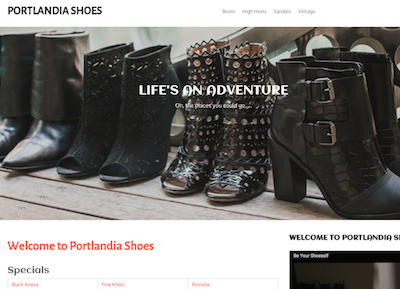
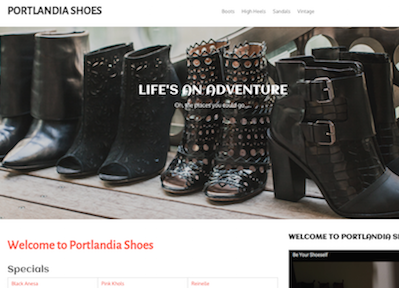
Move portfolio section to top. Remove all images and start over to prevent float drop of images.

diff --git a/index.html b/index.html
@@ -21,6 +21,7 @@
     <link href="font-awesome/css/font-awesome.min.css" rel="stylesheet" type="text/css">
     <link href="https://fonts.googleapis.com/css?family=Montserrat:400,700" rel="stylesheet" type="text/css">
     <link href='https://fonts.googleapis.com/css?family=Kaushan+Script' rel='stylesheet' type='text/css'>
+    <link href='http://fonts.googleapis.com/css?family=Lobster' rel='stylesheet' type='text/css'>
     <link href='https://fonts.googleapis.com/css?family=Droid+Serif:400,700,400italic,700italic' rel='stylesheet' type='text/css'>
     <link href='https://fonts.googleapis.com/css?family=Roboto+Slab:400,100,300,700' rel='stylesheet' type='text/css'>
 
@@ -81,6 +82,104 @@
         </div>
     </header>
 
+     <!-- Portfolio Grid Section -->
+    <section id="portfolio" class="bg-light-gray">
+        <div class="container">
+            <div class="row">
+                <div class="col-lg-12 text-center">
+                    <h2 class="section-heading">Portfolio</h2>
+                    <h3 class="section-subheading text-muted">Lorem ipsum dolor sit amet consectetur.</h3>
+                </div>
+            </div>
+            <div class="row">
+                <div class="col-md-4 col-sm-6 portfolio-item">
+                    <a href="#portfolioModal1" class="portfolio-link" data-toggle="modal">
+                        <div class="portfolio-hover">
+                            <div class="portfolio-hover-content">
+                                <i class="fa fa-plus fa-3x"></i>
+                            </div>
+                        </div>
+                        <img src="img/portfolio/roundicons.png" class="img-responsive" alt="">
+                    </a>
+                    <div class="portfolio-caption">
+                        <h4>Round Icons</h4>
+                        <p class="text-muted">Graphic Design</p>
+                    </div>
+                </div>
+                <div class="col-md-4 col-sm-6 portfolio-item">
+                    <a href="#portfolioModal2" class="portfolio-link" data-toggle="modal">
+                        <div class="portfolio-hover">
+                            <div class="portfolio-hover-content">
+                                <i class="fa fa-plus fa-3x"></i>
+                            </div>
+                        </div>
+                        <img src="img/portfolio/startup-framework.png" class="img-responsive" alt="">
+                    </a>
+                    <div class="portfolio-caption">
+                        <h4>Startup Framework</h4>
+                        <p class="text-muted">Website Design</p>
+                    </div>
+                </div>
+                <div class="col-md-4 col-sm-6 portfolio-item">
+                    <a href="#portfolioModal3" class="portfolio-link" data-toggle="modal">
+                        <div class="portfolio-hover">
+                            <div class="portfolio-hover-content">
+                                <i class="fa fa-plus fa-3x"></i>
+                            </div>
+                        </div>
+                        <img src="img/portfolio/treehouse.png" class="img-responsive" alt="">
+                    </a>
+                    <div class="portfolio-caption">
+                        <h4>Treehouse</h4>
+                        <p class="text-muted">Website Design</p>
+                    </div>
+                </div>
+                <div class="col-md-4 col-sm-6 portfolio-item">
+                    <a href="#portfolioModal4" class="portfolio-link" data-toggle="modal">
+                        <div class="portfolio-hover">
+                            <div class="portfolio-hover-content">
+                                <i class="fa fa-plus fa-3x"></i>
+                            </div>
+                        </div>
+                        <img src="img/portfolio/golden.png" class="img-responsive" alt="">
+                    </a>
+                    <div class="portfolio-caption">
+                        <h4>Golden</h4>
+                        <p class="text-muted">Website Design</p>
+                    </div>
+                </div>
+                <div class="col-md-4 col-sm-6 portfolio-item">
+                    <a href="#portfolioModal5" class="portfolio-link" data-toggle="modal">
+                        <div class="portfolio-hover">
+                            <div class="portfolio-hover-content">
+                                <i class="fa fa-plus fa-3x"></i>
+                            </div>
+                        </div>
+                        <img src="img/portfolio/escape.png" class="img-responsive" alt="">
+                    </a>
+                    <div class="portfolio-caption">
+                        <h4>Escape</h4>
+                        <p class="text-muted">Website Design</p>
+                    </div>
+                </div>
+                <div class="col-md-4 col-sm-6 portfolio-item">
+                    <a href="#portfolioModal6" class="portfolio-link" data-toggle="modal">
+                        <div class="portfolio-hover">
+                            <div class="portfolio-hover-content">
+                                <i class="fa fa-plus fa-3x"></i>
+                            </div>
+                        </div>
+                        <img src="img/portfolio/dreams.png" class="img-responsive" alt="">
+                    </a>
+                    <div class="portfolio-caption">
+                        <h4>Dreams</h4>
+                        <p class="text-muted">Website Design</p>
+                    </div>
+                </div>
+            </div>
+        </div>
+    </section>
+
     <!-- About Section -->
     <section id="about">
                 <div class="row">
@@ -89,6 +188,7 @@
                     </div>
                 </div>
             <img class="featurette-image" src="img/bojana6.jpg">
+
         <div class="lead">
             <p class="aboutme">I bring a unique skill set to the web development environment: an enthusiasm for both learning new technologies and sharing what I've learned with other people, and exceptional communication skills from working in the customer service environment. After working as a librarian for over a decade, I decided to become a programmer because I enjoy applying technical and critical thinking skills to solve challenging problems while working with others. </p>
 
@@ -96,103 +196,6 @@
         </div>
     </section>
 
-    <!-- Portfolio Grid Section -->
-    <section id="portfolio" class="bg-light-gray">
-        <div class="container">
-            <div class="row">
-                <div class="col-lg-12 text-center">
-                    <h2 class="section-heading">Portfolio</h2>
-                </div>
-            </div>
-            <div class="row">
-                <div class="col-md-4 col-sm-6 portfolio-item">
-                    <a href="#portfolioModal1" class="portfolio-link" data-toggle="modal">
-                        <div class="portfolio-hover">
-                            <div class="portfolio-hover-content">
-                                <!-- <i class="fa fa-plus fa-3x"></i> -->
-                            </div>
-                        </div>
-                        <img src="img/portlandiashoesthumb.png" class="img-responsive" alt="Thumbnail image of Portlandia Shoes website">
-                    </a>
-                    <div class="portfolio-caption">
-                        <h4>Portlandia Shoes</h4>
-                        <p class="text-muted">Drupal Website</p>
-                    </div>
-                </div>
-                <div class="col-md-4 col-sm-6 portfolio-item">
-                    <a href="#portfolioModal2" class="portfolio-link" data-toggle="modal">
-                        <div class="portfolio-hover">
-                            <div class="portfolio-hover-content">
-                            </div>
-                        </div>
-                        <img src="img/pdxadventthumb.png" class="img-responsive" alt="Thumbnail image of PDX Adventures app">
-                    </a>
-                    <div class="portfolio-caption">
-                        <h4>PDX Adventures</h4>
-                        <p class="text-muted">PHP and PostgreSQL</p>
-                    </div>
-                </div>
-                <div class="col-md-4 col-sm-6 portfolio-item">
-                    <a href="#portfolioModal3" class="portfolio-link" data-toggle="modal">
-                        <div class="portfolio-hover">
-                            <div class="portfolio-hover-content">
-                                <!-- <i class="fa fa-plus fa-3x"></i> -->
-                            </div>
-                        </div>
-                        <img src="img/portfolio/treehouse.png" class="img-responsive" alt="">
-                    </a>
-                    <div class="portfolio-caption">
-                        <h4>Personality Quiz</h4>
-                        <p class="text-muted">JavaScript and jQuery</p>
-                    </div>
-                </div>
-                <div class="col-md-4 col-sm-6 portfolio-item">
-                    <a href="#portfolioModal4" class="portfolio-link" data-toggle="modal">
-                        <div class="portfolio-hover">
-                            <div class="portfolio-hover-content">
-                                <!-- <i class="fa fa-plus fa-3x"></i> -->
-                            </div>
-                        </div>
-                        <img src="img/portfolio/golden.png" class="img-responsive" alt="">
-                    </a>
-                    <div class="portfolio-caption">
-                        <h4>Animal Shelter App</h4>
-                        <p class="text-muted">AngularJS</p>
-                    </div>
-                </div>
-                <div class="col-md-4 col-sm-6 portfolio-item">
-                    <a href="#portfolioModal5" class="portfolio-link" data-toggle="modal">
-                        <div class="portfolio-hover">
-                            <div class="portfolio-hover-content">
-                                <!-- <i class="fa fa-plus fa-3x"></i> -->
-                            </div>
-                        </div>
-                        <img src="img/portfolio/escape.png" class="img-responsive" alt="">
-                    </a>
-                    <div class="portfolio-caption">
-                        <h4>Scrabble</h4>
-                        <p class="text-muted">PHP</p>
-                    </div>
-                </div>
-                <div class="col-md-4 col-sm-6 portfolio-item">
-                    <a href="#portfolioModal6" class="portfolio-link" data-toggle="modal">
-                        <div class="portfolio-hover">
-                            <div class="portfolio-hover-content">
-                                <!-- <i class="fa fa-plus fa-3x"></i> -->
-                            </div>
-                        </div>
-                        <img src="img/portfolio/dreams.png" class="img-responsive" alt="">
-                    </a>
-                    <div class="portfolio-caption">
-                        <h4>Bank Account</h4>
-                        <p class="text-muted">JavaScript</p>
-                    </div>
-                </div>
-            </div>
-        </div>
-    </section>
-
-    
     <!-- Contact Section -->
     <section id="contact">
         <div class="container">
@@ -334,11 +337,11 @@
                     <div class="col-lg-8 col-lg-offset-2">
                         <div class="modal-body">
                             <!-- Project Details Go Here -->
-                            <h2>Project Name</h2>
-                            <p class="item-intro text-muted">Lorem ipsum dolor sit amet consectetur.</p>
-                            <img class="img-responsive img-centered" src="img/portfolio/treehouse-preview.png" alt="">
-                            <p>Treehouse is a free PSD web template built by <a href="https://www.behance.net/MathavanJaya">Mathavan Jaya</a>. This is bright and spacious design perfect for people or startup companies looking to showcase their apps or other projects.</p>
-                            <p>You can download the PSD template in this portfolio sample item at <a href="http://freebiesxpress.com/gallery/treehouse-free-psd-web-template/">FreebiesXpress.com</a>.</p>
+                            <h2>Personality Test</h2>
+                            <p class="item-intro text-muted">This group project is an app that tells users what their personality type is based on selection of images that appeal to them. Each image is associated with a personality type and its traits. We coded this app in Object Oriented JavaScript and rendered the app in the browser using jQuery.</p>
+                            <p class="item-intro text-muted">Click <a href="http://pdx-adventures.herokuapp.com">here</a> for a link to the website. Click <a href="https://github.com/BabaYaga64/PDXAdventures">here</a> for a link to the GitHub code.</p>
+
+                            <div class="modalimage"><a href="http://pdx-adventures.herokuapp.com"><img class="img-responsive img-centered" src="img/pdxadventpreview.png" alt="Image of PDX Adventures website"></a></div>
                             <button type="button" class="btn btn-primary" data-dismiss="modal"><i class="fa fa-times"></i> Close Project</button>
                         </div>
                     </div>

diff --git a/portfoliosectionbeta.html b/portfoliosectionbeta.html
@@ -1,0 +1,95 @@
+<!-- Portfolio Grid Section -->
+    <section id="portfolio" class="bg-light-gray">
+        <div class="container">
+            <div class="row">
+                <div class="col-lg-12 text-center">
+                    <h2 class="section-heading">Portfolio</h2>
+                </div>
+            </div>
+            <div class="row">
+                <div class="col-md-4 col-sm-6 portfolio-item">
+                    <a href="#portfolioModal1" class="portfolio-link" data-toggle="modal">
+                        <div class="portfolio-hover">
+                            <div class="portfolio-hover-content">
+                                <!-- <i class="fa fa-plus fa-3x"></i> -->
+                            </div>
+                        </div>
+                        <img src="img/portlandiashoesthumb.png" class="img-responsive" alt="Thumbnail image of Portlandia Shoes website">
+                    </a>
+                    <div class="portfolio-caption">
+                        <h4>Portlandia Shoes</h4>
+                        <p class="text-muted">Drupal Website</p>
+                    </div>
+                </div>
+                <div class="col-md-4 col-sm-6 portfolio-item">
+                    <a href="#portfolioModal2" class="portfolio-link" data-toggle="modal">
+                        <div class="portfolio-hover">
+                            <div class="portfolio-hover-content">
+                            </div>
+                        </div>
+                        <img src="img/pdxadventthumb.png" class="img-responsive" alt="Thumbnail image of PDX Adventures app">
+                    </a>
+                    <div class="portfolio-caption">
+                        <h4>PDX Adventures</h4>
+                        <p class="text-muted">PHP and PostgreSQL</p>
+                    </div>
+                </div>
+                <div class="col-md-4 col-sm-6 portfolio-item">
+                    <a href="#portfolioModal3" class="portfolio-link" data-toggle="modal">
+                        <div class="portfolio-hover">
+                            <div class="portfolio-hover-content">
+                                <!-- <i class="fa fa-plus fa-3x"></i> -->
+                            </div>
+                        </div>
+                        <img src="img/portfolio/treehouse.png" class="img-responsive" alt="">
+                    </a>
+                    <div class="portfolio-caption">
+                        <h4>Personality Quiz</h4>
+                        <p class="text-muted">JavaScript and jQuery</p>
+                    </div>
+                </div>
+                <div class="col-md-4 col-sm-6 portfolio-item">
+                    <a href="#portfolioModal4" class="portfolio-link" data-toggle="modal">
+                        <div class="portfolio-hover">
+                            <div class="portfolio-hover-content">
+                                <!-- <i class="fa fa-plus fa-3x"></i> -->
+                            </div>
+                        </div>
+                        <img src="img/portfolio/golden.png" class="img-responsive" alt="">
+                    </a>
+                    <div class="portfolio-caption">
+                        <h4>Animal Shelter App</h4>
+                        <p class="text-muted">AngularJS</p>
+                    </div>
+                </div>
+                <div class="col-md-4 col-sm-6 portfolio-item">
+                    <a href="#portfolioModal5" class="portfolio-link" data-toggle="modal">
+                        <div class="portfolio-hover">
+                            <div class="portfolio-hover-content">
+                                <!-- <i class="fa fa-plus fa-3x"></i> -->
+                            </div>
+                        </div>
+                        <img src="img/portfolio/escape.png" class="img-responsive" alt="">
+                    </a>
+                    <div class="portfolio-caption">
+                        <h4>Scrabble</h4>
+                        <p class="text-muted">PHP</p>
+                    </div>
+                </div>
+                <div class="col-md-4 col-sm-6 portfolio-item">
+                    <a href="#portfolioModal6" class="portfolio-link" data-toggle="modal">
+                        <div class="portfolio-hover">
+                            <div class="portfolio-hover-content">
+                                <!-- <i class="fa fa-plus fa-3x"></i> -->
+                            </div>
+                        </div>
+                        <img src="img/portfolio/dreams.png" class="img-responsive" alt="">
+                    </a>
+                    <div class="portfolio-caption">
+                        <h4>Bank Account</h4>
+                        <p class="text-muted">JavaScript</p>
+                    </div>
+                </div>
+            </div>
+        </div>
+    </section>

diff --git a/css/agency.css b/css/agency.css
@@ -183,7 +183,8 @@ fieldset[disabled] .btn-xl.active {
 }
 
 .navbar-default .navbar-brand {
-    font-family: "Kaushan Script","Helvetica Neue",Helvetica,Arial,cursive;
+    font-family: "Lobster","Helvetica Neue", Helvetica,Arial,cursive;
+    font-weight: 400;
     color: #fed136;
 }
 
@@ -238,6 +239,9 @@ fieldset[disabled] .btn-xl.active {
     background-color: #fec503;
 }
 
+#socialmediatop {
+    margin: 0 auto;
+}
 
 @media(min-width:768px) {
     .navbar-default {
@@ -312,8 +316,6 @@ header .intro-text .intro-heading {
     line-height: 50px;
     color: #EBE0D6;
 }
-
-
 
 @media(min-width:768px) {
     header .intro-text {
@@ -919,6 +921,14 @@ body {
         clear: both;
         margin-top: 20px;
         padding: 15px;
+    }
+
+    section h2.section-heading {
+        font-size: 30px; 
+    }
+
+    #contact {
+        padding-bottom: 20px;
     }
 }
 
